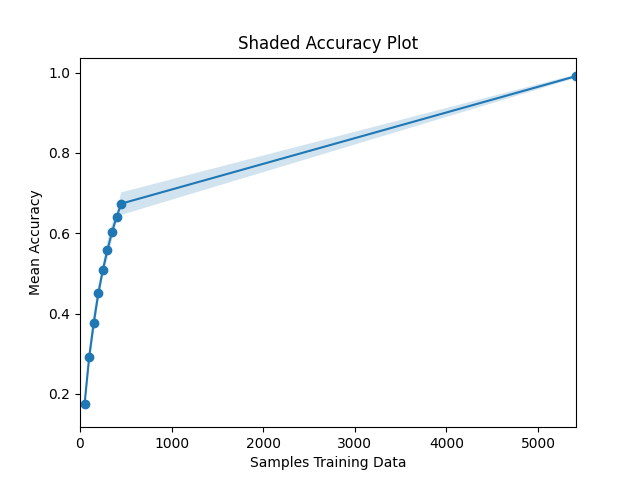
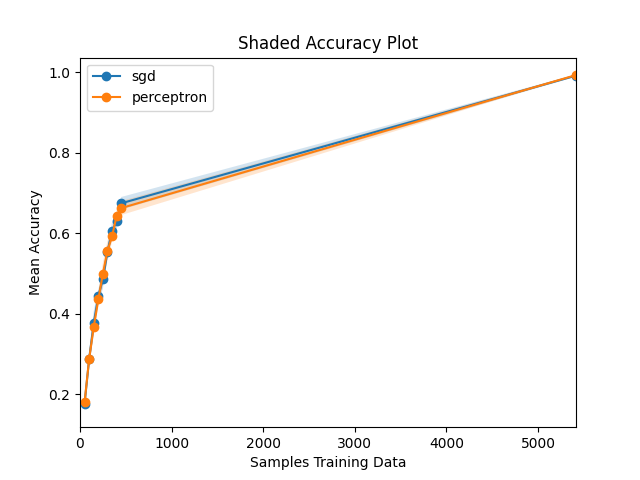
ckpt feature analysis

Changed region(s): [[0.0625, 0.1562, 0.9062, 0.8438], [0.125, 0.125, 0.3438, 0.2188]]

diff --git a/classifier.py b/classifier.py
@@ -1,8 +1,10 @@
 import numpy as np
+from tensorflow.python.keras.engine.training import Model
 from tqdm import tqdm
 import os
 os.environ['TF_CPP_MIN_LOG_LEVEL'] = '2' # Only show TensorFlow warnings and errors
 from sklearn.linear_model import SGDClassifier
+from sklearn.linear_model import Perceptron, LinearRegression
 from shared import simple_boxplot
 from sklearn.utils import resample
 import joblib
@@ -26,64 +28,62 @@ numOfSteps = 10
 steps = list(range(oneStep, oneStep*numOfSteps, oneStep))
 steps.append(N)
 num_trials = len(steps)
-scores = {}
-acc_mean = []
-acc_std = []
+model_scores = {}
+# acc_mean = []
+# acc_std = []
 
-# Which subset of data will potentially really matter.
-for step in steps:
-    # n_samples = int((train_percent / 100) * N)
-    n_samples = step
-    # print("{}% == {} samples...".format(train_percent, n_samples))
-    print("{} samples...".format(n_samples))
-    # label = "{}".format(train_percent, n_samples)
-    label = "{}".format(n_samples)
+for name, base_model in zip(
+  ["sgd", "perceptron"],
+  [SGDClassifier, Perceptron]):
+  model_scores[name] = {}
+  model_scores[name]['acc_mean'] = []
+  model_scores[name]['acc_std'] = []
+  for step in steps:
+      n_samples = step
+      print("{}-{} samples...".format(name, n_samples))
+      label = "{}".format(n_samples)
 
-    # So we consider num_trials=100 subsamples, and train a model on each.
-    scores[label] = []
-    for i in range(num_trials):
-        X_sample, y_sample = resample(
-            train_X_Feature, train_y_Feature, n_samples=n_samples, replace=False
-        )  # type:ignore
-        # Note here, I'm using a simple classifier for speed, rather than the best.
-        clf = SGDClassifier(random_state=RANDOM_SEED + i)
-        clf.fit(X_sample, y_sample)
-        # so we get 100 scores per percentage-point.
-        scores[label].append(clf.score(vali_X_Feature, vali_y_Feature))
-    # We'll first look at a line-plot of the mean:
-    acc_mean.append(np.mean(scores[label]))
-    acc_std.append(np.std(scores[label]))
+      model_scores[name][label] = []
 
-# First, try a line plot, with shaded variance regions:
+      for i in range(num_trials):
+          X_sample, y_sample = resample(
+              train_X_Feature, train_y_Feature, n_samples=n_samples, replace=False
+          )
+          model = base_model(random_state=RANDOM_SEED + i)
+          model.fit(X_sample, y_sample)
+          model_scores[name][label].append(model.score(vali_X_Feature, vali_y_Feature))
+      # We'll first look at a line-plot of the mean:
+      model_scores[name]['acc_mean'].append(np.mean(model_scores[name][label]))
+      model_scores[name]['acc_std'].append(np.std(model_scores[name][label]))
+
 import matplotlib.pyplot as plt
 
-means = np.array(acc_mean)
-std = np.array(acc_std)
-plt.plot(steps, acc_mean, "o-")
-plt.fill_between(steps, means - std, means + std, alpha=0.2)
+for name, value in model_scores.items():
+  means = np.array(model_scores[name]['acc_mean'])
+  std = np.array(model_scores[name]['acc_std'])
+  plt.plot(steps, means, "o-", label="{}".format(name))
+  plt.fill_between(steps, means - std, means + std, alpha=0.2)
+
 plt.xlabel("Samples Training Data")
 plt.ylabel("Mean Accuracy")
 plt.xlim([0, N])
+plt.legend()
 plt.title("Shaded Accuracy Plot")
 plt.savefig("graphs/simpleSGD.png")
 plt.show()
 
 
-# Second look at the boxplots in-order: (I like this better, IMO)
-simple_boxplot(
-    scores,
-    "Learning Curve",
-    xlabel="Samples Training Data",
-    ylabel="Accuracy",
-    save="graphs/simpleSGD-boxplot.png",
-)
+
+# simple_boxplot(
+#     scores,
+#     "Learning Curve",
+#     xlabel="Samples Training Data",
+#     ylabel="Accuracy",
+#     save="graphs/simpleSGD-boxplot.png",
+# )
 
 
 
-
-
-# Experimenting codes:
-# print("type_to_label dict: " + str(type_to_label))
-# img = cv2.imread("./fruits-360/Test/Apple Braeburn/3_100.jpg", cv2.IMREAD_COLOR)
-# cv2.imshow("image",img)
-# cv2.waitKey()
+# TODO:
+# Maybe try resNet50
+# Not just linear model?

diff --git a/preprocessing.py b/preprocessing.py
@@ -5,10 +5,11 @@ import random
 import math
 import tensorflow as tf
 from tensorflow.keras.preprocessing import image
-from tensorflow.keras.applications.vgg16 import preprocess_input
-from tensorflow.keras.applications.vgg16 import VGG16
+from tensorflow.keras.applications.vgg19 import preprocess_input
+from tensorflow.keras.applications.vgg19 import VGG19
 os.environ['TF_CPP_MIN_LOG_LEVEL'] = '2' # Only show TensorFlow warnings and errors
 import joblib
+from vgg import myVGG
 
 
 type_to_label = {}
@@ -99,9 +100,14 @@ print("Num of Images in Train Data: " + str(len(train_X)))
 print("Validation Data Created!")
 print("Num of Images in Validation Data: " + str(len(vali_X)))
 
-base_model = VGG16(include_top=False, input_shape=(IMG_SIZE, IMG_SIZE, 3), pooling="avg", weights='imagenet')
-# base_model.summary()
+base_model = VGG19(include_top=False, input_shape=(IMG_SIZE, IMG_SIZE, 3), pooling="avg", weights='imagenet')
+base_model.summary()
 base_model.trainable = False
+
+content_layer = "block4_conv1"
+test_model = myVGG(content_layer)
+
+
 
 train_X_Feature = []
 train_y_Feature = []
@@ -111,6 +117,8 @@ vali_X_Feature = []
 shrink = 0.1
 for i in tqdm(range(math.floor(shrink*len(train_X)))):
   x_Feature = base_model.predict(train_X[i])
+  # x_Feature = test_model(train_X[i])
+
   x_Feature = np.array(x_Feature)
   train_X_Feature.append(x_Feature.flatten())
   train_y_Feature.append(train_y[i])
@@ -118,6 +126,8 @@ for i in tqdm(range(math.floor(shrink*len(train_X)))):
 
 for i in tqdm(range(math.floor(shrink*len(vali_X)))):
   x_Feature = base_model.predict(vali_X[i])
+  # x_Feature = test_model(vali_X[i])
+
   x_Feature = np.array(x_Feature)
   vali_X_Feature.append(x_Feature.flatten())
   vali_y_Feature.append(vali_y[i])

diff --git a/vgg.py b/vgg.py
@@ -1,0 +1,23 @@
+import tensorflow as tf
+import os
+from tensorflow.keras.applications import vgg19, VGG19
+os.environ['TFHUB_MODEL_LOAD_FORMAT'] = 'COMPRESSED'
+os.environ['TF_CPP_MIN_LOG_LEVEL'] = '2' # Only show TensorFlow warnings and errors
+
+# This is a class extened on tf.keras.models.Model
+class myVGG(tf.keras.models.Model):
+  def __init__(self, layer):
+      super(myVGG, self).__init__()
+      # get vgg19
+      vgg = VGG19(include_top=False, weights="imagenet")
+
+      features = vgg.get_layer(layer).output
+
+      # Define this model with our selected inputs/outputs
+      self.vgg = tf.keras.Model([vgg.input], [features])
+      # Not trainable, just for features extraction
+      self.vgg.trainable = False
+
+  def call(self, inputs):
+      features = self.vgg(inputs)
+      return features
